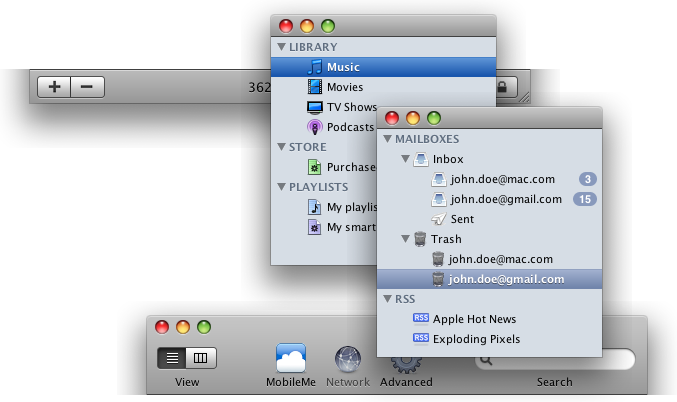
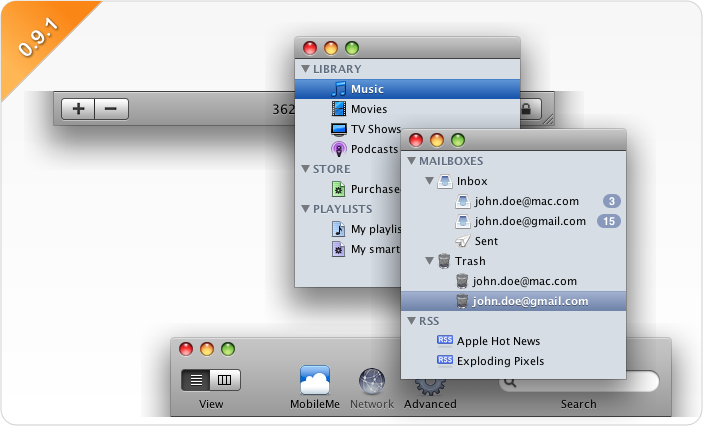
Cleaned up formatting.
git-svn-id: http://macwidgets.googlecode.com/svn/trunk@73 994baef0-d455-0410-a6e6-f5fefbad0d02

diff --git a/demo/com/explodingpixels/macwidgets/DBottomBar.java b/demo/com/explodingpixels/macwidgets/DBottomBar.java
@@ -31,11 +31,11 @@ public class DBottomBar {
 
         JTextArea textArea = new JTextArea();
 
-        TriAreaComponent bottomBar = MacWidgetFactory.createBottomBar(BottomBarSize.EXTRA_SMALL);
-//        bottomBar.addComponentToLeft(leftButton, 0);
-//        bottomBar.addComponentToLeft(rightButton);
+        TriAreaComponent bottomBar = MacWidgetFactory.createBottomBar(BottomBarSize.LARGE);
+        bottomBar.addComponentToLeft(leftButton, 0);
+        bottomBar.addComponentToLeft(rightButton);
         bottomBar.addComponentToCenter(MacWidgetFactory.createEmphasizedLabel("362 Items"));
-//        bottomBar.addComponentToRight(lockButton);
+        bottomBar.addComponentToRight(lockButton);
 
         JFrame frame = new JFrame();
         bottomBar.installWindowDraggerOnWindow(frame);
